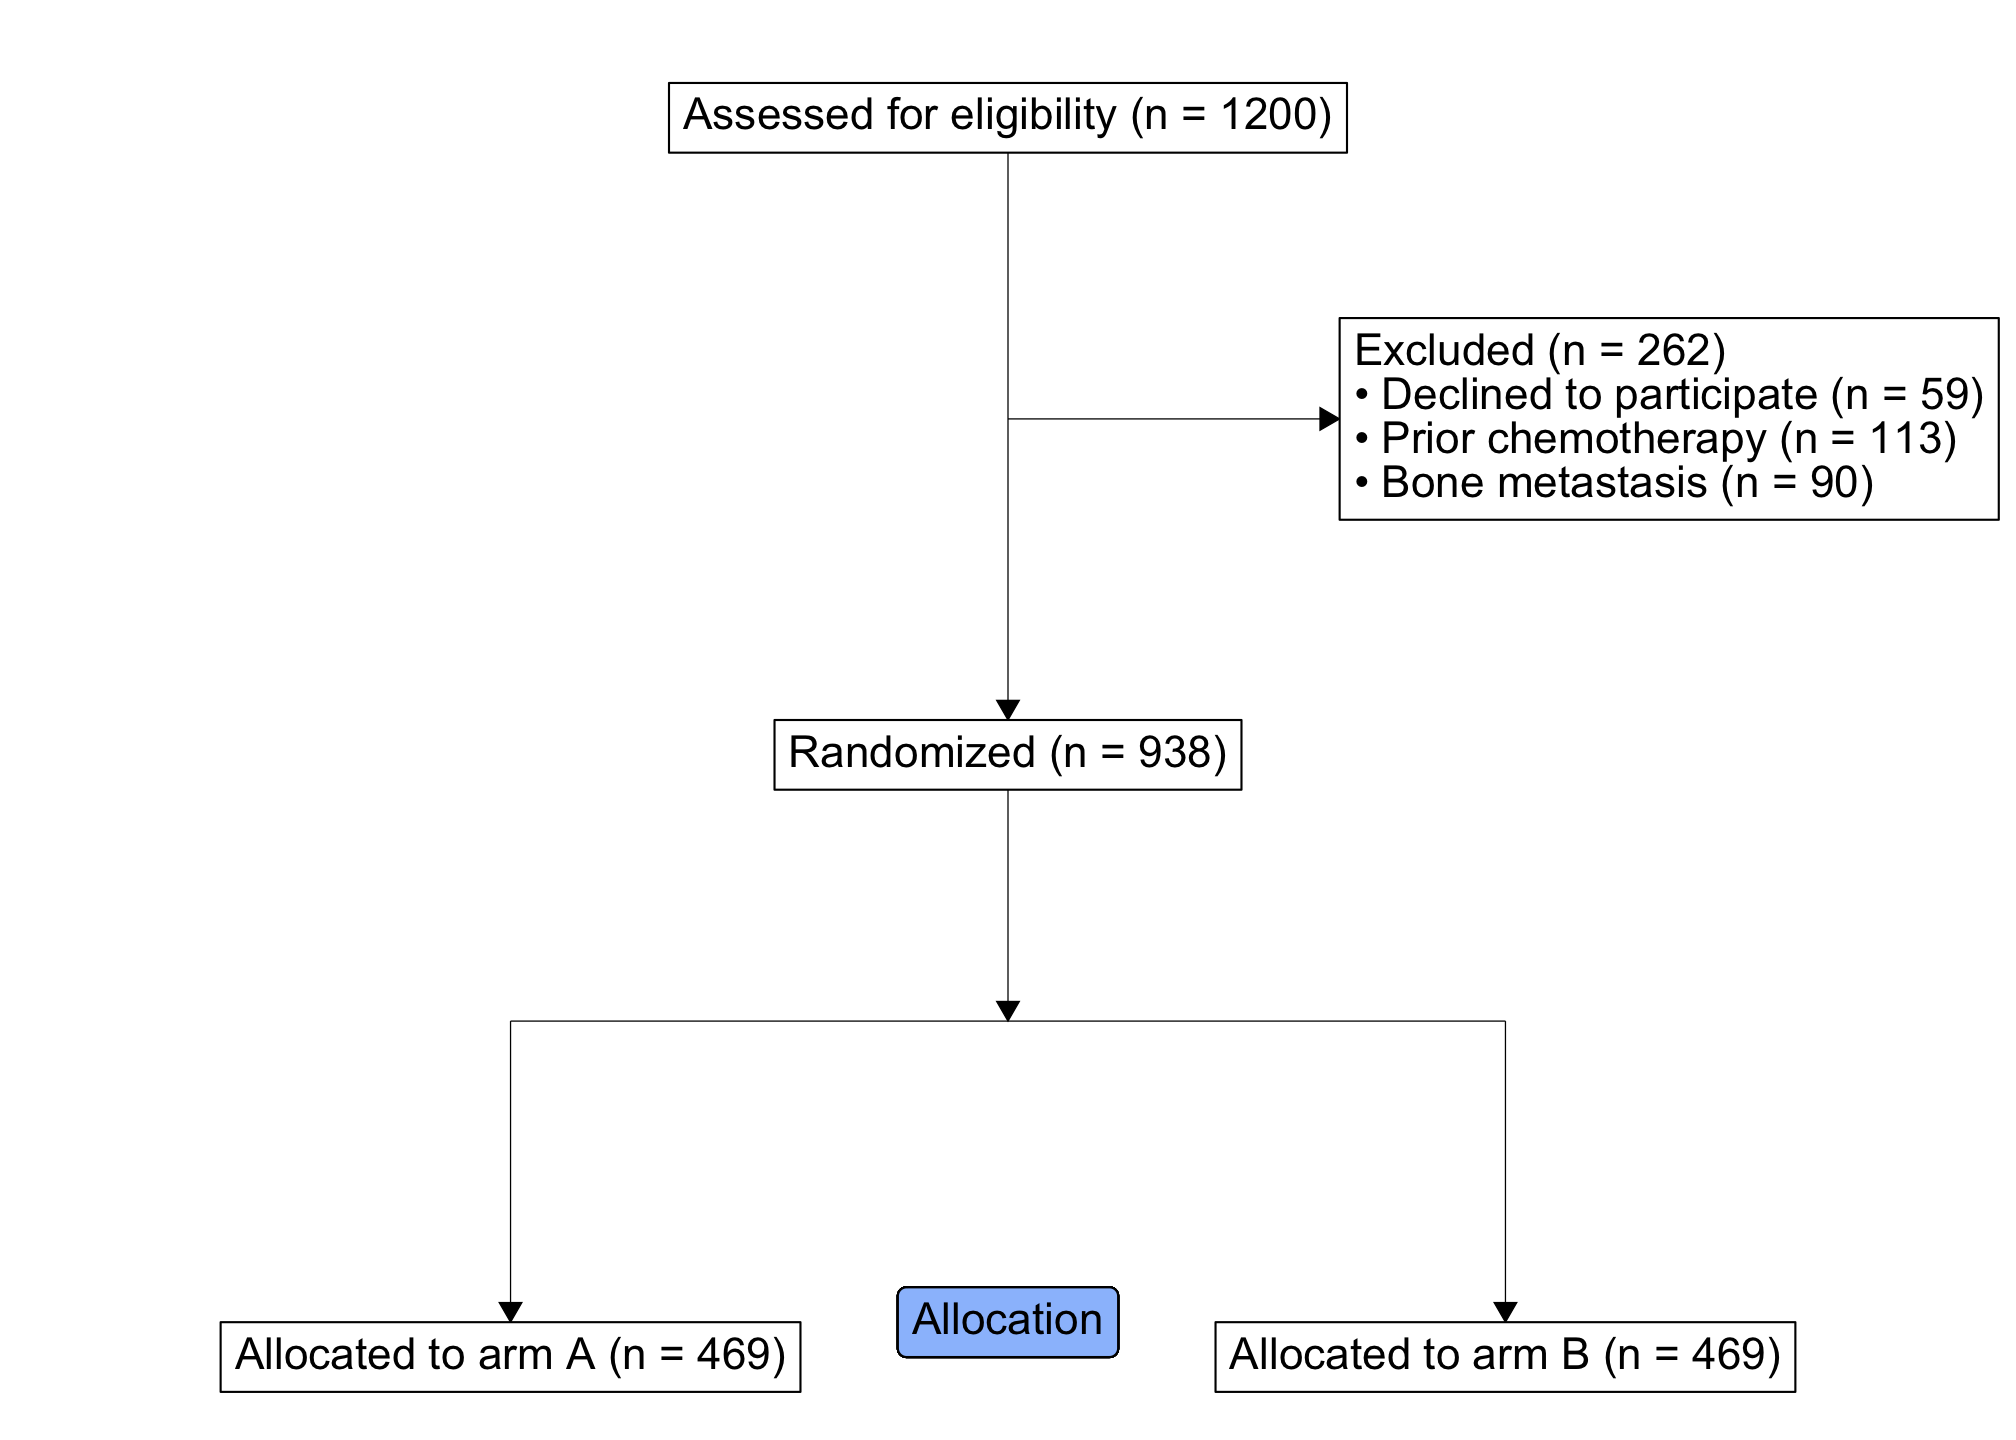
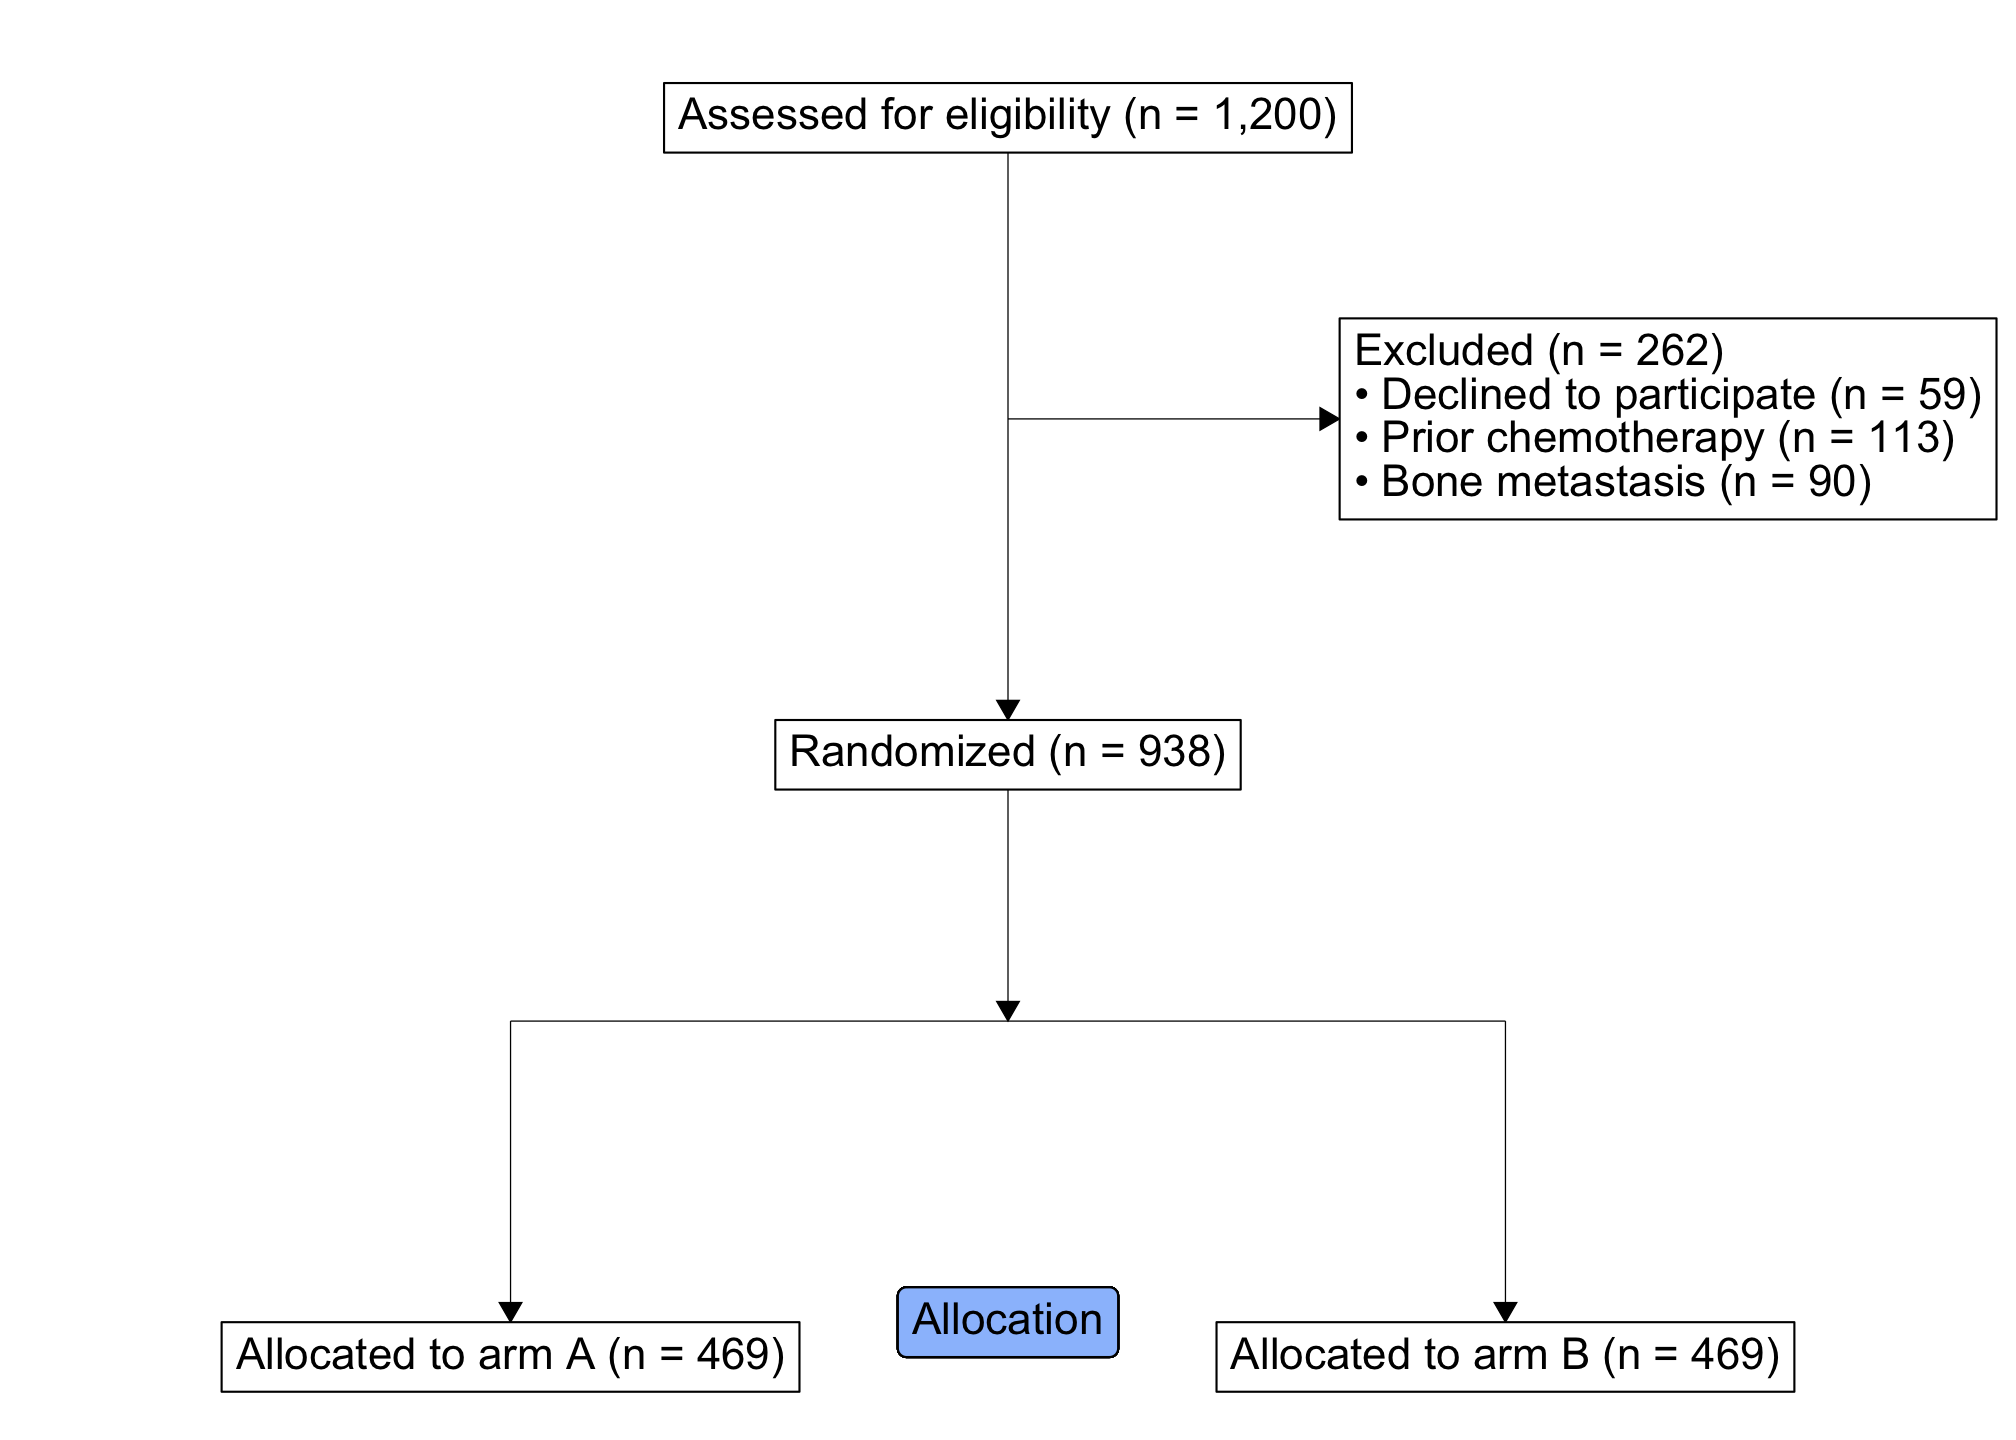
use consistent start-before-end arrow arguments in README (#15)

diff --git a/README.md b/README.md
@@ -4,6 +4,7 @@
 # ggconsort <img src="man/figures/logo.png" align="right" height="139" />
 
 <!-- badges: start -->
+
 <!-- badges: end -->
 
 ## Overview
@@ -18,12 +19,12 @@ layout and aesthetic design. With the introduction of a
 chains. Specifically, the following functions are implemented inside a
 dplyr chain to define a `ggconsort_cohort`:
 
--   `cohort_start()` initializes a `ggconsort_cohort` object which
-    contains a labeled copy of the source data
--   `cohort_define()` constructs cohorts that are variations of the
-    source data or other cohorts
--   `cohort_label()` adds labels to each named cohort within the
-    `ggconsort_cohort` object
+- `cohort_start()` initializes a `ggconsort_cohort` object which
+  contains a labeled copy of the source data
+- `cohort_define()` constructs cohorts that are variations of the source
+  data or other cohorts
+- `cohort_label()` adds labels to each named cohort within the
+  `ggconsort_cohort` object
 
 Stage 2 makes use of three ggconsort `consort_` verbs which equip the
 `ggconsort_cohort` object with `ggconsort` properties. The `ggconsort`
@@ -31,10 +32,10 @@ object can be viewed with ggplot via `geom_consort() + theme_consort()`.
 `plot` and `print` methods are also available for the `ggconsort` object
 for visually iterative development.
 
--   `consort_box_add()` adds a text box to the CONSORT diagram
--   `consort_arrow_add()` adds an arrow to the CONSORT diagram
--   `consort_line_add()` adds a line (without an arrow head) the CONSORT
-    diagram
+- `consort_box_add()` adds a text box to the CONSORT diagram
+- `consort_arrow_add()` adds an arrow to the CONSORT diagram
+- `consort_line_add()` adds a line (without an arrow head) the CONSORT
+  diagram
 
 ## Installation
 
@@ -56,7 +57,7 @@ participate in a randomized trial comparing Drug A to Drug B.
 library(ggconsort)
 
 head(trial_data)
-#> # A tibble: 6 x 5
+#> # A tibble: 6 × 5
 #>      id declined prior_chemo bone_mets treatment
 #>   <int>    <int>       <int>     <int> <chr>    
 #> 1 65464        0           0         0 Drug A   
@@ -127,7 +128,7 @@ study_cohorts
 #>   ...and 1 more.
 
 summary(study_cohorts)
-#> # A tibble: 10 x 3
+#> # A tibble: 10 × 3
 #>    cohort               count label                   
 #>    <chr>                <int> <chr>                   
 #>  1 .full                 1200 Assessed for eligibility
@@ -172,22 +173,28 @@ study_consort <- study_cohorts %>%
     "arm_b", 30, 10, cohort_count_adorn(study_cohorts, treatment_b)
   ) %>%
   consort_arrow_add(
-    end = "exclusions", end_side = "left", start_x = 0, start_y = 40
+    start_x = 0, start_y = 40,
+    end = "exclusions", end_side = "left"
   ) %>%
   consort_arrow_add(
-    "full", "bottom", "randomized", "top"
-  ) %>% 
+    start = "full", start_side = "bottom",
+    end = "randomized", end_side = "top"
+  ) %>%
   consort_arrow_add(
-    start_x = 0, start_y = 30, end_x = 0, end_y = 20,
+    start_x = 0, start_y = 30,
+    end_x = 0, end_y = 20
   ) %>%
   consort_line_add(
-    start_x = -30, start_y = 20, end_x = 30, end_y = 20,
-  ) %>% 
-  consort_arrow_add(
-    end = "arm_a", end_side = "top", start_x = -30, start_y = 20
+    start_x = -30, start_y = 20,
+    end_x = 30, end_y = 20
   ) %>%
   consort_arrow_add(
-    end = "arm_b", end_side = "top", start_x = 30, start_y = 20
+    start_x = -30, start_y = 20,
+    end = "arm_a", end_side = "top"
+  ) %>%
+  consort_arrow_add(
+    start_x = 30, start_y = 20,
+    end = "arm_b", end_side = "top"
   )
 
 study_consort %>%
@@ -199,6 +206,9 @@ study_consort %>%
     aes(x = 0, y = 10, label = "Allocation"),
     fill = "#9bc0fc"
   )
+#> Warning in ggtext::geom_richtext(aes(x = 0, y = 10, label = "Allocation"), : All aesthetics have length 1, but the data has 11 rows.
+#> ℹ Please consider using `annotate()` or provide this layer with data containing
+#>   a single row.
 ```
 
 <img src="man/figures/README-example-consort-1.png" width="100%" />
@@ -209,7 +219,7 @@ desired data frame of randomized subjects:
 ``` r
 study_cohorts %>%
   cohort_pull(randomized)
-#> # A tibble: 938 x 5
+#> # A tibble: 938 × 5
 #>       id declined prior_chemo bone_mets treatment
 #>    <int>    <int>       <int>     <int> <chr>    
 #>  1 65464        0           0         0 Drug A   
@@ -222,5 +232,5 @@ study_cohorts %>%
 #>  8 65186        0           0         0 Drug B   
 #>  9 48837        0           0         0 Drug A   
 #> 10 99005        0           0         0 Drug B   
-#> # … with 928 more rows
+#> # ℹ 928 more rows
 ```